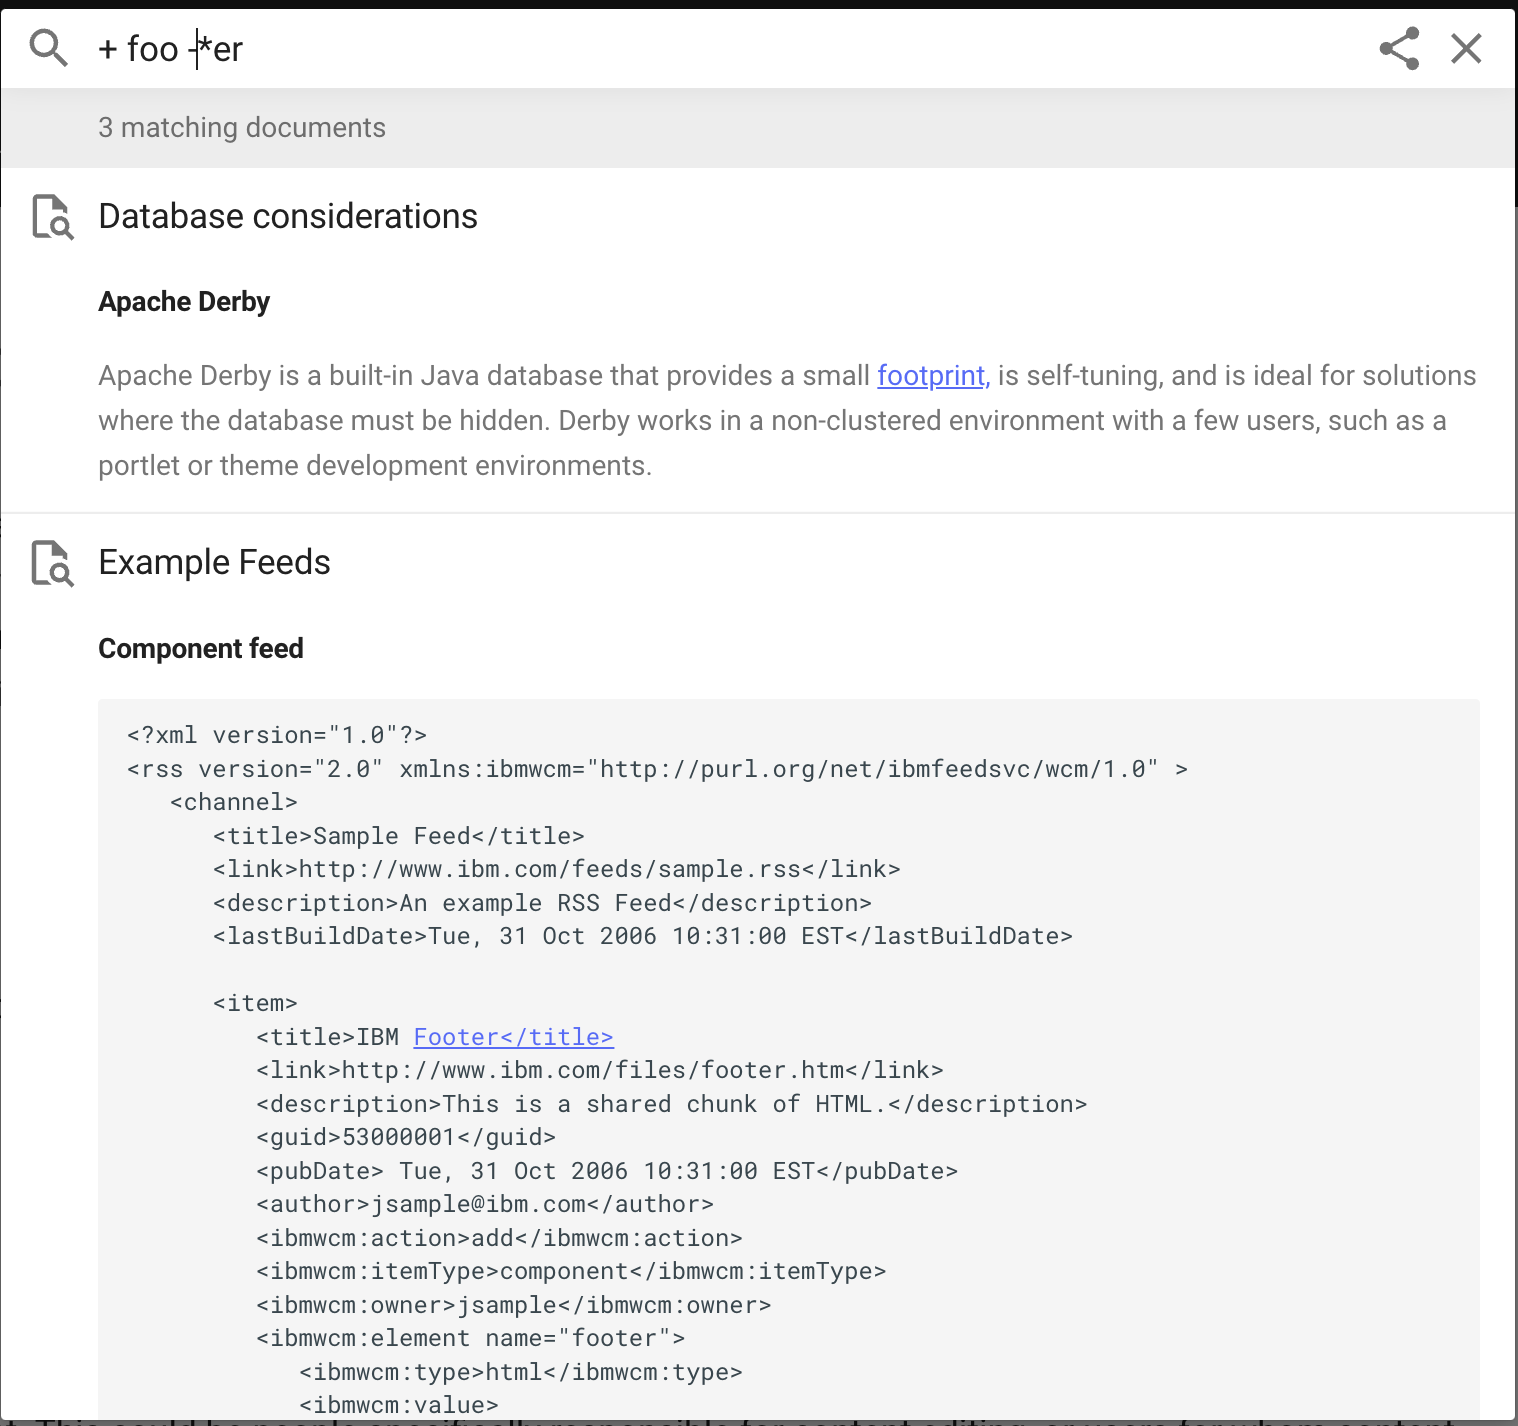
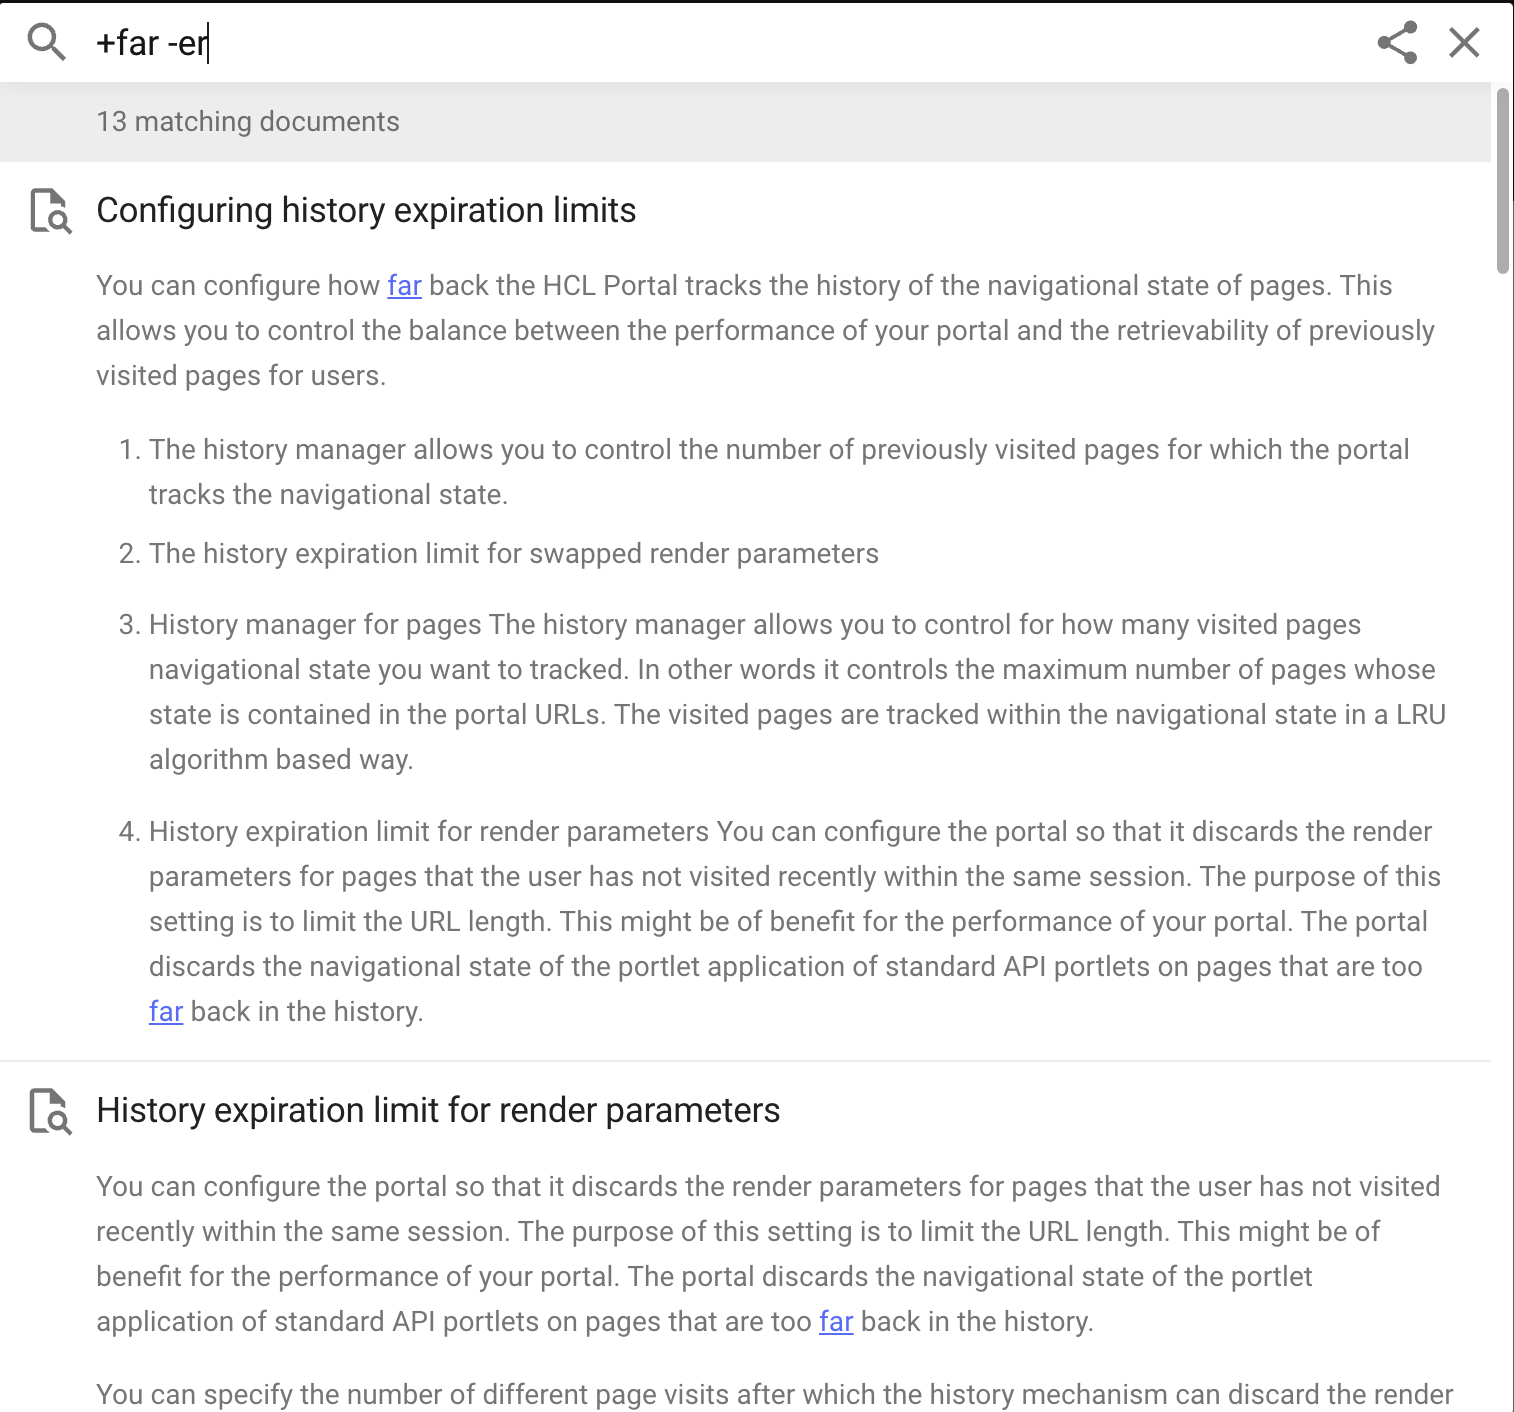
Updated the comments

Changed region(s): [[0.0, 0.0, 1.0, 1.0], [0.0, 0.1246, 0.9624, 0.4051]]

diff --git a/docs/guide_me/SerchingTipsforMkdocs.md b/docs/guide_me/SerchingTipsforMkdocs.md
@@ -1,34 +1,28 @@
-# Tips for searching in Mkdocs
+# Tips for searching in help center
 
-Refer to the following tips to help you find better search results:                                                              
+Refer to the following search queries tip to help you find better search results:                                                              
 
 - **fo***: Use this to find all the keywords beginning with 'fo'.
 
-    Example: footer, form, etc. 
-
 - **f*o**: Use this to find all the keywords that start with 'f' and end with 'o'.
 - ***er**: Use this to find all the keywords ending with 'er'.
-    Example: builder, footer, etc. are displayed.
 
 - **fo bar**: Use this to find the keywords beginning with 'fo' or 'bar'.
 
-    Example: following, bar, etc. 
-
-- **+ foo**: The search must contain 'foo'.
+- **+far**: The search must contain 'far'.
 - **-bar**: The search cannot contain 'bar'.
 - **title:navigation**: Use this to find pages with page titles that contain 'navigation'.
 
-    Example: Adding page-level navigation, Hiding and displaying pages in the navigation, etc.
 
 
-## When you combine the tips
+## Combining queries to refine search results
 
-Users can combine the tips to get the required search results. Refer to the following tips:
+Users can combine the search queries tip to refine the search results. Refer to the following tips:
 
-- **+foo +bar**: The search contains both 'foo' and 'bar'.
-- **+ foo -bar**: Use this to find every page with 'foo' but not 'bar'.
-- **+ foo -*er**: Use this to find every page with 'foo' that does not have words ending with 'er'.
+- **+far +bar**: The search contains both 'far' and 'bar'.
+- **+far -bar**: Use this to find every page with 'far' but not 'bar'.
+- **+far -*er**: Use this to find every page with 'far' that does not have words ending with 'er'.
 - **title:navigation -extension**: Use this to find all pages with the page title 'navigation' that do not have the word 'extension'.
 
 
-![Example of +foo -*er](../images/Sample_search_results.png)
+![Example of +far -*er](../images/Sample_search_results.png)

diff --git a/docs/manage_content/digital_assets/configuration/staging_dam/dam_staging_mismatch.md b/docs/manage_content/digital_assets/configuration/staging_dam/dam_staging_mismatch.md
@@ -47,7 +47,7 @@ To trigger the DAM staging resync, refer to the following steps:
     !!!note
            The status RESYNC_TRIGGER_COMPLETED only means that resync operations have been created. Because these operations are asynchronous, it takes time for the system to be in sync.
 
-5. View the subscriber operations API to check if there are any operations still in progress. Fo more details about verification, refer to [Verification](#verification).
+5. View the subscriber operations API to check if there are any operations still in progress. For more details about verification, refer to [Verification](#verification).
 
 ## Commands to trigger the identification of staging mismatches and resync
 
